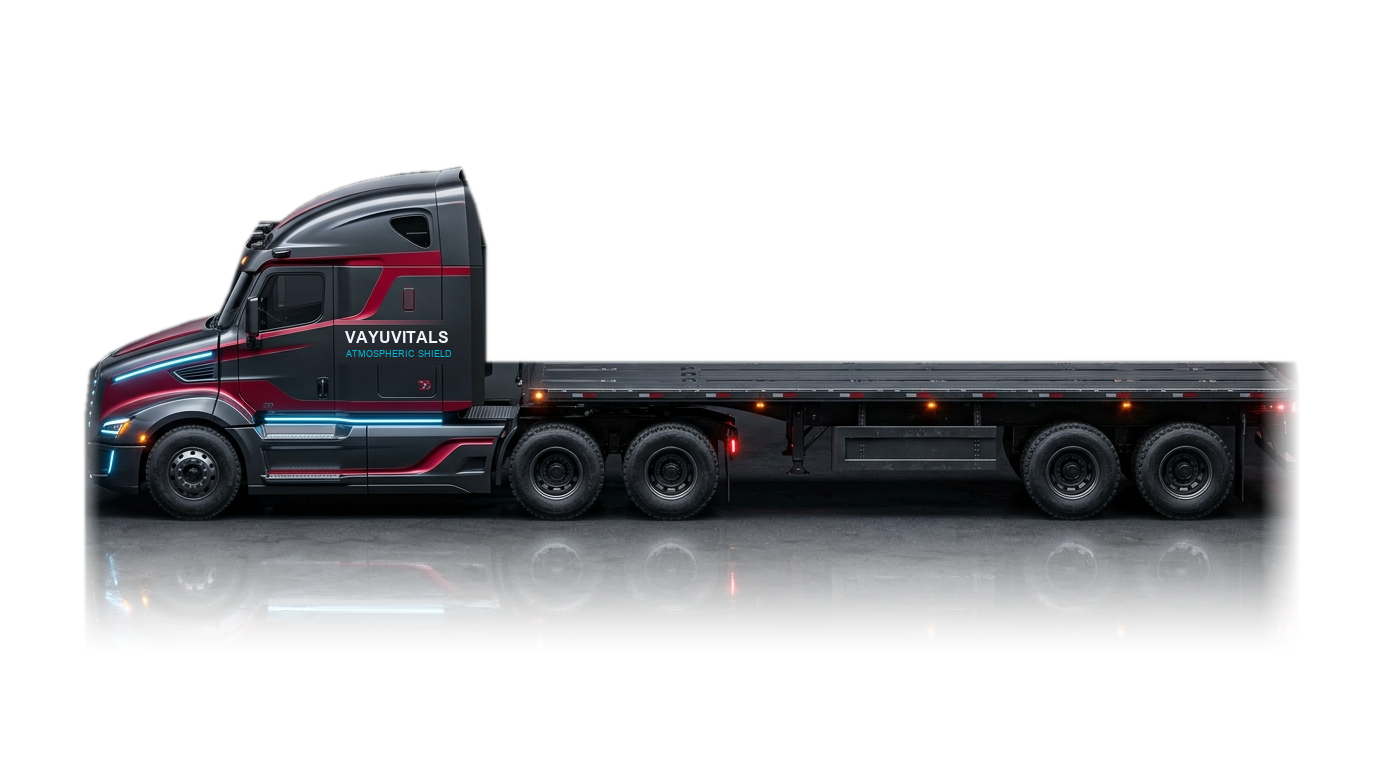
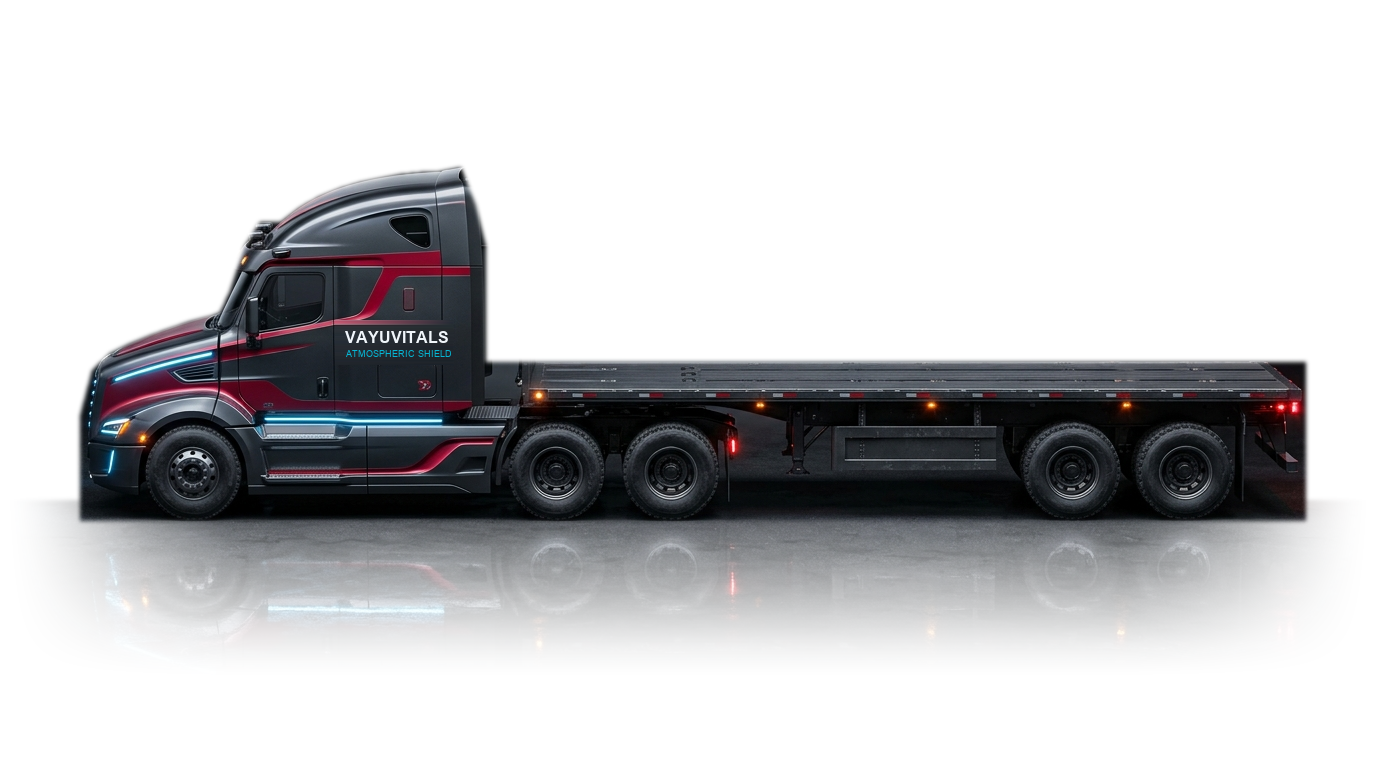
feat(cargo-truck): Add Arc Reactor pulsating blue lights and organic radial feathering for seamless edge blending

Changed region(s): [[0.8125, 0.4688, 0.9688, 0.7812], [0.0312, 0.4688, 0.1562, 0.7812]]

diff --git a/src/components/CargoTruck/AtmosphericCargoTruck.css b/src/components/CargoTruck/AtmosphericCargoTruck.css
@@ -5,7 +5,7 @@
   position: relative;
   width: 100%;
   background: radial-gradient(ellipse at 50% 15%, rgba(15, 23, 42, 0.98) 0%, rgba(6, 10, 18, 0.99) 65%, #030712 100%);
-  padding: 6rem 1.5rem 6.5rem;
+  padding: 6.5rem 1.5rem 7rem;
   overflow: hidden;
   border-top: none; /* Seamless borderless transition from map section */
   border-bottom: 1px solid rgba(255, 255, 255, 0.06);
@@ -20,8 +20,8 @@
   top: 0;
   left: 0;
   right: 0;
-  height: 180px;
-  background: linear-gradient(180deg, #070a12 0%, rgba(7, 10, 18, 0.92) 30%, rgba(7, 10, 18, 0.5) 65%, transparent 100%);
+  height: 220px;
+  background: linear-gradient(180deg, #070a12 0%, rgba(7, 10, 18, 0.95) 25%, rgba(7, 10, 18, 0.6) 65%, transparent 100%);
   pointer-events: none;
   z-index: 2;
 }
@@ -211,29 +211,26 @@
 /* ==========================================================
    SEAMLESS TRUCK STAGE & HIGHWAY RUNWAY
    Completely integrated into the surrounding environment
-   (No harsh card boxes or picture-frame borders!)
+   (No harsh card boxes, no cut-off boundary lines!)
    ========================================================== */
 .weighbridge-stage {
   position: relative;
   width: 100%;
-  border-radius: 20px;
-  /* Soft organic gradient matching the page background */
-  background: radial-gradient(ellipse at 50% 60%, rgba(15, 23, 42, 0.6) 0%, rgba(10, 15, 26, 0.3) 60%, transparent 95%);
-  padding: 2rem 0.5rem 1.5rem;
+  padding: 1.5rem 0.5rem 1rem;
   overflow: visible;
 }
 
 /* Cybernetic Overhead Volumetric Spotlight */
 .weighbridge-spotlight {
   position: absolute;
-  top: -25%;
+  top: -30%;
   left: 50%;
   transform: translateX(-50%);
-  width: 90%;
-  height: 80%;
-  background: radial-gradient(ellipse at 50% 0%, rgba(56, 189, 248, 0.14) 0%, rgba(6, 182, 212, 0.04) 50%, transparent 80%);
+  width: 95%;
+  height: 90%;
+  background: radial-gradient(ellipse at 50% 0%, rgba(56, 189, 248, 0.12) 0%, rgba(6, 182, 212, 0.03) 50%, transparent 80%);
   pointer-events: none;
-  filter: blur(20px);
+  filter: blur(25px);
 }
 
 /* Laser Scanning Beam Sweeping the Payload */
@@ -258,6 +255,7 @@
 
 /* ==========================================================
    TRUCK VIEWPORT (16:9 Aspect Ratio)
+   Ultra-smooth organic vignette eliminating any left/right abrupt cutoff
    ========================================================== */
 .truck-viewport {
   position: relative;
@@ -267,6 +265,9 @@
   aspect-ratio: 1376 / 768;
   user-select: none;
   overflow: visible;
+  /* Feather left and right edges smoothly into transparent space */
+  mask-image: radial-gradient(ellipse 88% 85% at 50% 52%, black 62%, rgba(0, 0, 0, 0.75) 78%, transparent 97%);
+  -webkit-mask-image: radial-gradient(ellipse 88% 85% at 50% 52%, black 62%, rgba(0, 0, 0, 0.75) 78%, transparent 97%);
 }
 
 /* Suspension Compression & Engine Idle Vibration */
@@ -292,7 +293,6 @@
   object-fit: cover;
   pointer-events: none;
   z-index: 10;
-  /* Deep, soft atmospheric drop shadow blending with dark road */
   filter: drop-shadow(0 15px 35px rgba(0, 0, 0, 0.95));
 }
 
@@ -302,9 +302,9 @@
   bottom: 14%;
   left: 6%;
   right: 6%;
-  height: 30px;
-  background: radial-gradient(ellipse at 50% 50%, rgba(0, 0, 0, 0.9) 0%, rgba(0, 0, 0, 0.45) 55%, transparent 90%);
-  filter: blur(14px);
+  height: 32px;
+  background: radial-gradient(ellipse at 50% 50%, rgba(0, 0, 0, 0.95) 0%, rgba(0, 0, 0, 0.45) 55%, transparent 88%);
+  filter: blur(16px);
   pointer-events: none;
   z-index: 4;
 }
@@ -324,17 +324,173 @@
   transition: background 0.8s ease;
 }
 
-/* Highway Ground Surface & Runway Markings */
-.weighbridge-runway-line {
+/* ==========================================================
+   ⚡ ARC REACTOR-STYLE PULSING BLUE ENGINE LIGHTS
+   High-tech Stark Industries Quantum Plasma Breathing & Spooling
+   ========================================================== */
+
+/* 1. Slanted Aerodynamic Hood Blade */
+.arc-reactor-hood-blade {
   position: absolute;
-  bottom: 12%;
-  left: 4%;
-  right: 4%;
-  height: 2px;
-  background: linear-gradient(90deg, transparent 0%, rgba(56, 189, 248, 0.3) 20%, rgba(56, 189, 248, 0.5) 50%, rgba(56, 189, 248, 0.3) 80%, transparent 100%);
-  box-shadow: 0 0 10px rgba(56, 189, 248, 0.3);
+  left: 8.8%;
+  top: 47.8%;
+  width: 7.2%;
+  height: 1.4%;
+  border-radius: 999px;
+  background: linear-gradient(90deg, rgba(56, 189, 248, 0.3) 0%, #ffffff 35%, #00f0ff 70%, rgba(56, 189, 248, 0.4) 100%);
+  transform: rotate(-7deg);
   pointer-events: none;
-  z-index: 3;
+  z-index: 14;
+  animation: arc-reactor-pulse 2.8s infinite cubic-bezier(0.4, 0, 0.2, 1);
+}
+
+/* 2. Lower Side Skirt Neon Power Rail */
+.arc-reactor-skirt-strip {
+  position: absolute;
+  left: 17.5%;
+  top: 54.6%;
+  width: 14.8%;
+  height: 1.6%;
+  border-radius: 2px;
+  background: linear-gradient(90deg, #38bdf8 0%, #ffffff 30%, #00f0ff 70%, #0284c7 100%);
+  pointer-events: none;
+  z-index: 14;
+  overflow: hidden;
+  animation: arc-reactor-pulse 2.8s infinite cubic-bezier(0.4, 0, 0.2, 1);
+}
+
+/* Traveling Quantum Plasma Wave along the side skirt */
+.arc-reactor-plasma-wave {
+  position: absolute;
+  top: 0;
+  left: 0;
+  width: 45%;
+  height: 100%;
+  background: linear-gradient(90deg, transparent 0%, rgba(255, 255, 255, 0.95) 50%, transparent 100%);
+  filter: blur(1px);
+  animation: plasma-wave-traverse 1.9s infinite ease-in-out;
+}
+
+@keyframes plasma-wave-traverse {
+  0% { transform: translateX(-120%); }
+  100% { transform: translateX(250%); }
+}
+
+/* 3. Front Bumper Vertical Energy Intake */
+.arc-reactor-bumper-intake {
+  position: absolute;
+  left: 7.05%;
+  top: 54.4%;
+  width: 1.1%;
+  height: 3.4%;
+  border-radius: 2px;
+  background: linear-gradient(180deg, #ffffff 0%, #00f0ff 60%, #0369a1 100%);
+  pointer-events: none;
+  z-index: 14;
+  animation: arc-reactor-pulse 2.8s infinite cubic-bezier(0.4, 0, 0.2, 1) 0.12s;
+}
+
+/* 4. Arc Reactor Circular Core Disk (Wheel Hub/Chassis Energy Core) */
+.arc-reactor-core-disc {
+  position: absolute;
+  left: 15.2%;
+  top: 53.6%;
+  width: 16px;
+  height: 16px;
+  border-radius: 50%;
+  background: radial-gradient(circle, #ffffff 0%, #00f0ff 40%, rgba(2, 132, 199, 0.4) 80%, transparent 100%);
+  border: 1px solid rgba(255, 255, 255, 0.8);
+  pointer-events: none;
+  z-index: 14;
+  animation: arc-reactor-core-spin 4s infinite linear, arc-reactor-pulse 2.8s infinite cubic-bezier(0.4, 0, 0.2, 1);
+}
+
+@keyframes arc-reactor-core-spin {
+  0% { transform: rotate(0deg); }
+  100% { transform: rotate(360deg); }
+}
+
+/* 5. Synchronized Ground Plasma Flare */
+.arc-reactor-ground-flare {
+  position: absolute;
+  left: 8%;
+  bottom: 20%;
+  width: 28%;
+  height: 18%;
+  border-radius: 50%;
+  background: radial-gradient(ellipse at 50% 50%, rgba(0, 240, 255, 0.5) 0%, rgba(56, 189, 248, 0.18) 45%, transparent 75%);
+  filter: blur(14px);
+  pointer-events: none;
+  z-index: 6;
+  animation: arc-reactor-ground-flare 2.8s infinite cubic-bezier(0.4, 0, 0.2, 1);
+}
+
+/* Master Arc Reactor Double-Beat Cardiac & Harmonic Surge Pulse */
+@keyframes arc-reactor-pulse {
+  0% {
+    opacity: 0.65;
+    filter: drop-shadow(0 0 5px #00f0ff) drop-shadow(0 0 14px rgba(0, 240, 255, 0.6));
+    box-shadow: 0 0 8px #00f0ff, 0 0 18px rgba(0, 240, 255, 0.5), inset 0 0 4px #ffffff;
+  }
+  16% {
+    opacity: 0.85;
+    filter: drop-shadow(0 0 10px #00f0ff) drop-shadow(0 0 24px rgba(0, 240, 255, 0.75));
+  }
+  22% {
+    /* Primary Arc Reactor Energy Surge */
+    opacity: 1;
+    filter: drop-shadow(0 0 18px #00f0ff) drop-shadow(0 0 38px #00f0ff) drop-shadow(0 0 65px rgba(0, 240, 255, 0.95));
+    box-shadow: 0 0 18px #00f0ff, 0 0 35px #00f0ff, 0 0 65px rgba(0, 240, 255, 0.95), inset 0 0 10px #ffffff;
+    transform: scale(1.03);
+  }
+  28% {
+    /* Quantum recoil / micro-rebound */
+    opacity: 0.76;
+    filter: drop-shadow(0 0 7px #00f0ff) drop-shadow(0 0 16px rgba(0, 240, 255, 0.6));
+    transform: scale(1);
+  }
+  34% {
+    /* Secondary Harmonic Echo Surge */
+    opacity: 0.97;
+    filter: drop-shadow(0 0 14px #00f0ff) drop-shadow(0 0 30px #00f0ff);
+    box-shadow: 0 0 14px #00f0ff, 0 0 28px rgba(0, 240, 255, 0.8), inset 0 0 8px #ffffff;
+  }
+  58% {
+    opacity: 0.72;
+    filter: drop-shadow(0 0 6px #00f0ff) drop-shadow(0 0 15px rgba(0, 240, 255, 0.5));
+    transform: scale(1);
+  }
+  78% {
+    opacity: 0.62;
+  }
+  84% {
+    opacity: 0.74;
+  }
+  100% {
+    opacity: 0.65;
+    filter: drop-shadow(0 0 5px #00f0ff) drop-shadow(0 0 14px rgba(0, 240, 255, 0.6));
+    box-shadow: 0 0 8px #00f0ff, 0 0 18px rgba(0, 240, 255, 0.5), inset 0 0 4px #ffffff;
+  }
+}
+
+@keyframes arc-reactor-ground-flare {
+  0%, 100% {
+    opacity: 0.38;
+    transform: scale(0.95);
+  }
+  22% {
+    opacity: 0.95;
+    transform: scale(1.18);
+    filter: blur(18px);
+  }
+  34% {
+    opacity: 0.78;
+    transform: scale(1.08);
+  }
+  65% {
+    opacity: 0.32;
+    transform: scale(0.92);
+  }
 }
 
 /* ==========================================================
@@ -816,7 +972,7 @@
 /* Responsive adjustments */
 @media (max-width: 900px) {
   .cargo-section {
-    padding: 4rem 1rem 4rem;
+    padding: 4.5rem 1rem 4.5rem;
   }
   .weighbridge-stage {
     padding: 1rem 0;

diff --git a/src/components/CargoTruck/AtmosphericCargoTruck.jsx b/src/components/CargoTruck/AtmosphericCargoTruck.jsx
@@ -438,6 +438,28 @@ export default function AtmosphericCargoTruck() {
                 className="truck-base-image"
               />
 
+              {/* ⚡ Arc Reactor Pulsing Blue Engine Lights */}
+              {isCyber && (
+                <>
+                  {/* Slanted Aerodynamic Hood Blade */}
+                  <div className="arc-reactor-hood-blade" title="Quantum Induction Hood Blade" />
+
+                  {/* Lower Side Skirt Energy Bus with traversing plasma wave */}
+                  <div className="arc-reactor-skirt-strip" title="Arc Reactor Energy Bus">
+                    <div className="arc-reactor-plasma-wave" />
+                  </div>
+
+                  {/* Front Bumper Energy Intake */}
+                  <div className="arc-reactor-bumper-intake" title="Forward Flux Intake" />
+
+                  {/* Arc Reactor Core Disk */}
+                  <div className="arc-reactor-core-disc" title="Arc Reactor Core Unit" />
+
+                  {/* Synchronized Ground Plasma Flare */}
+                  <div className="arc-reactor-ground-flare" />
+                </>
+              )}
+
               {/* =======================================================
                   CONTAINERS FLATBED DECK
                   Mounted on physical deck surface
